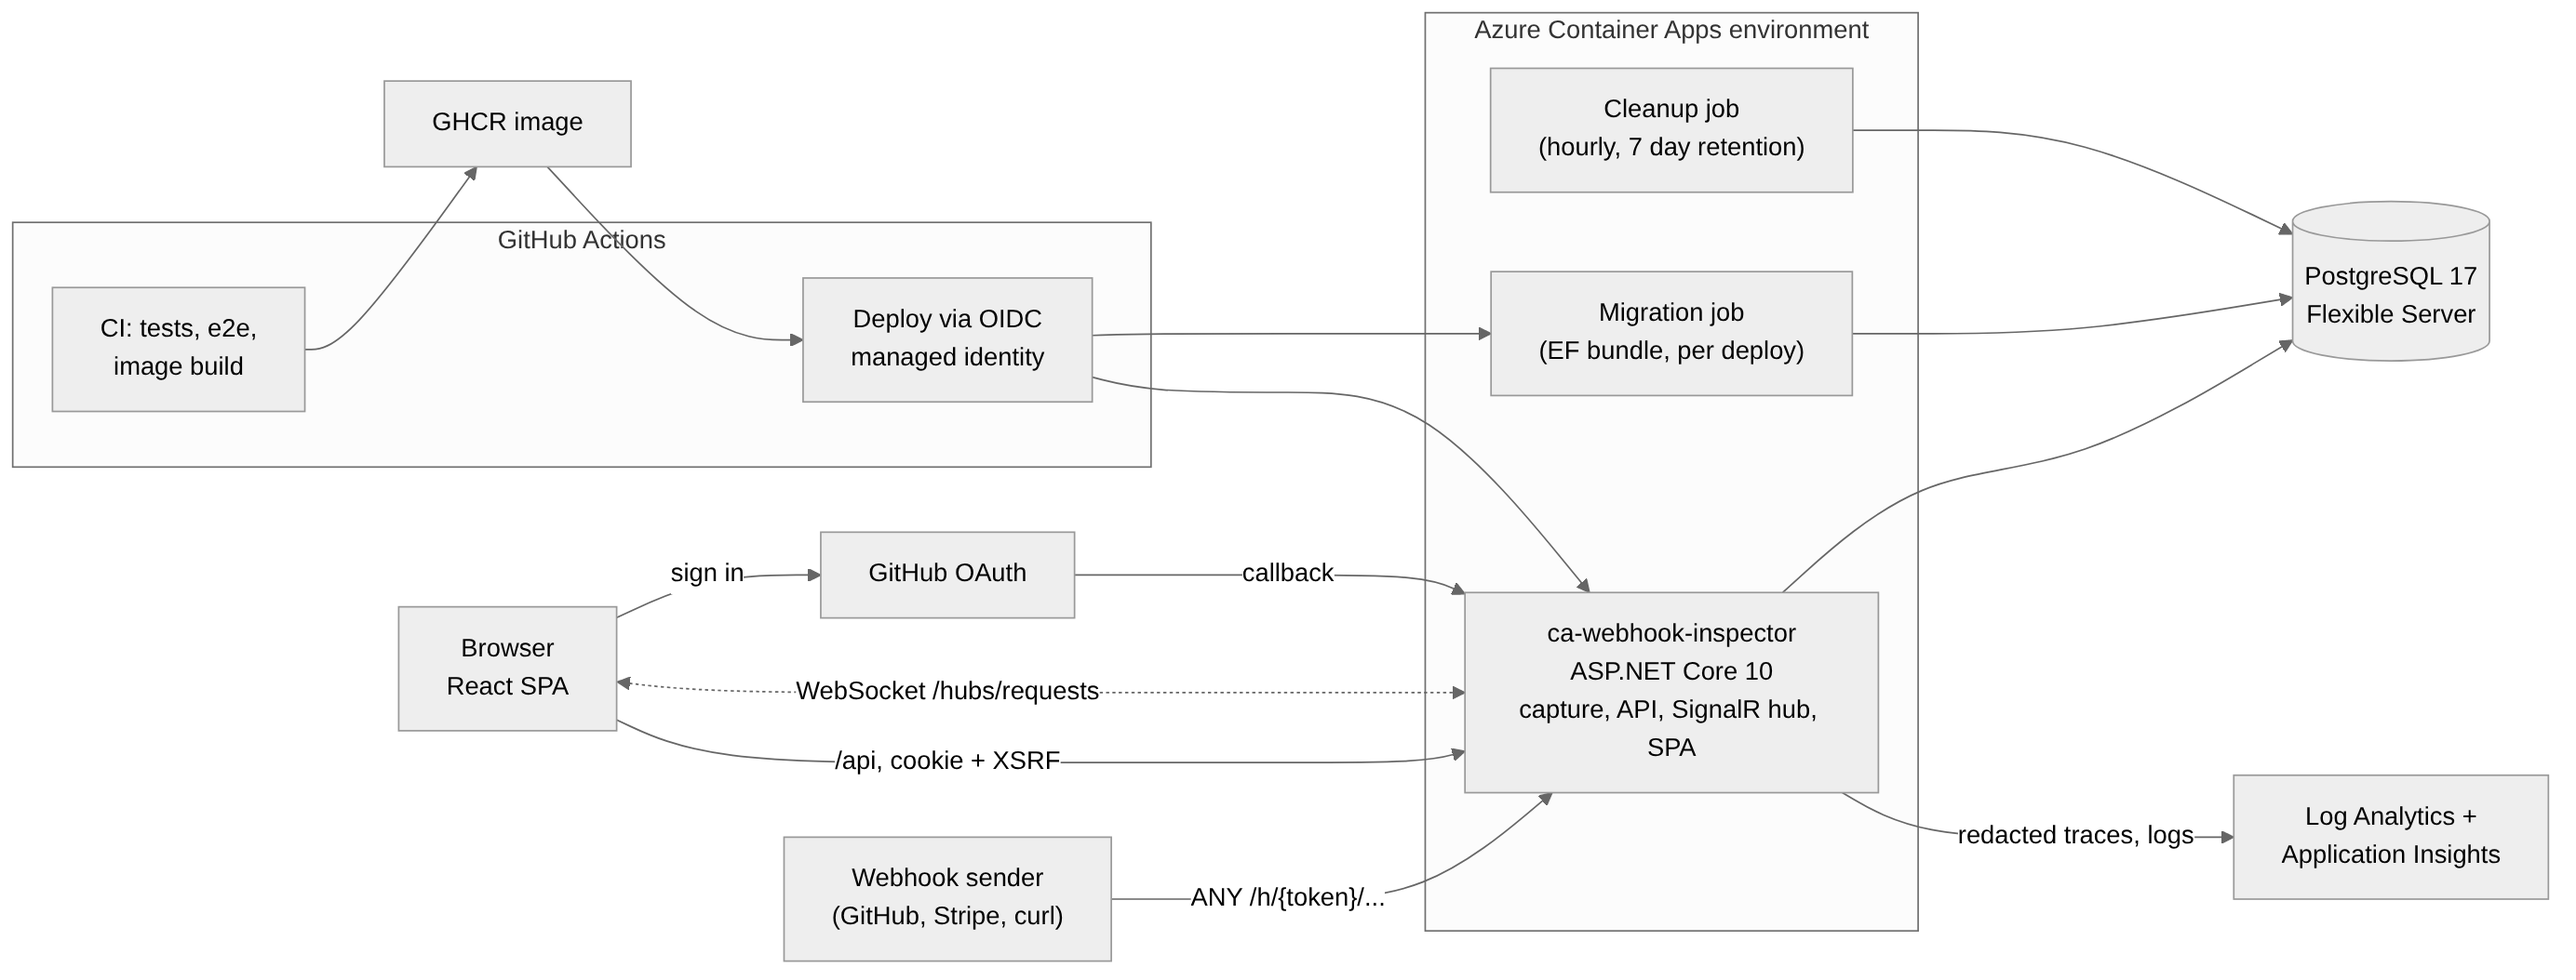
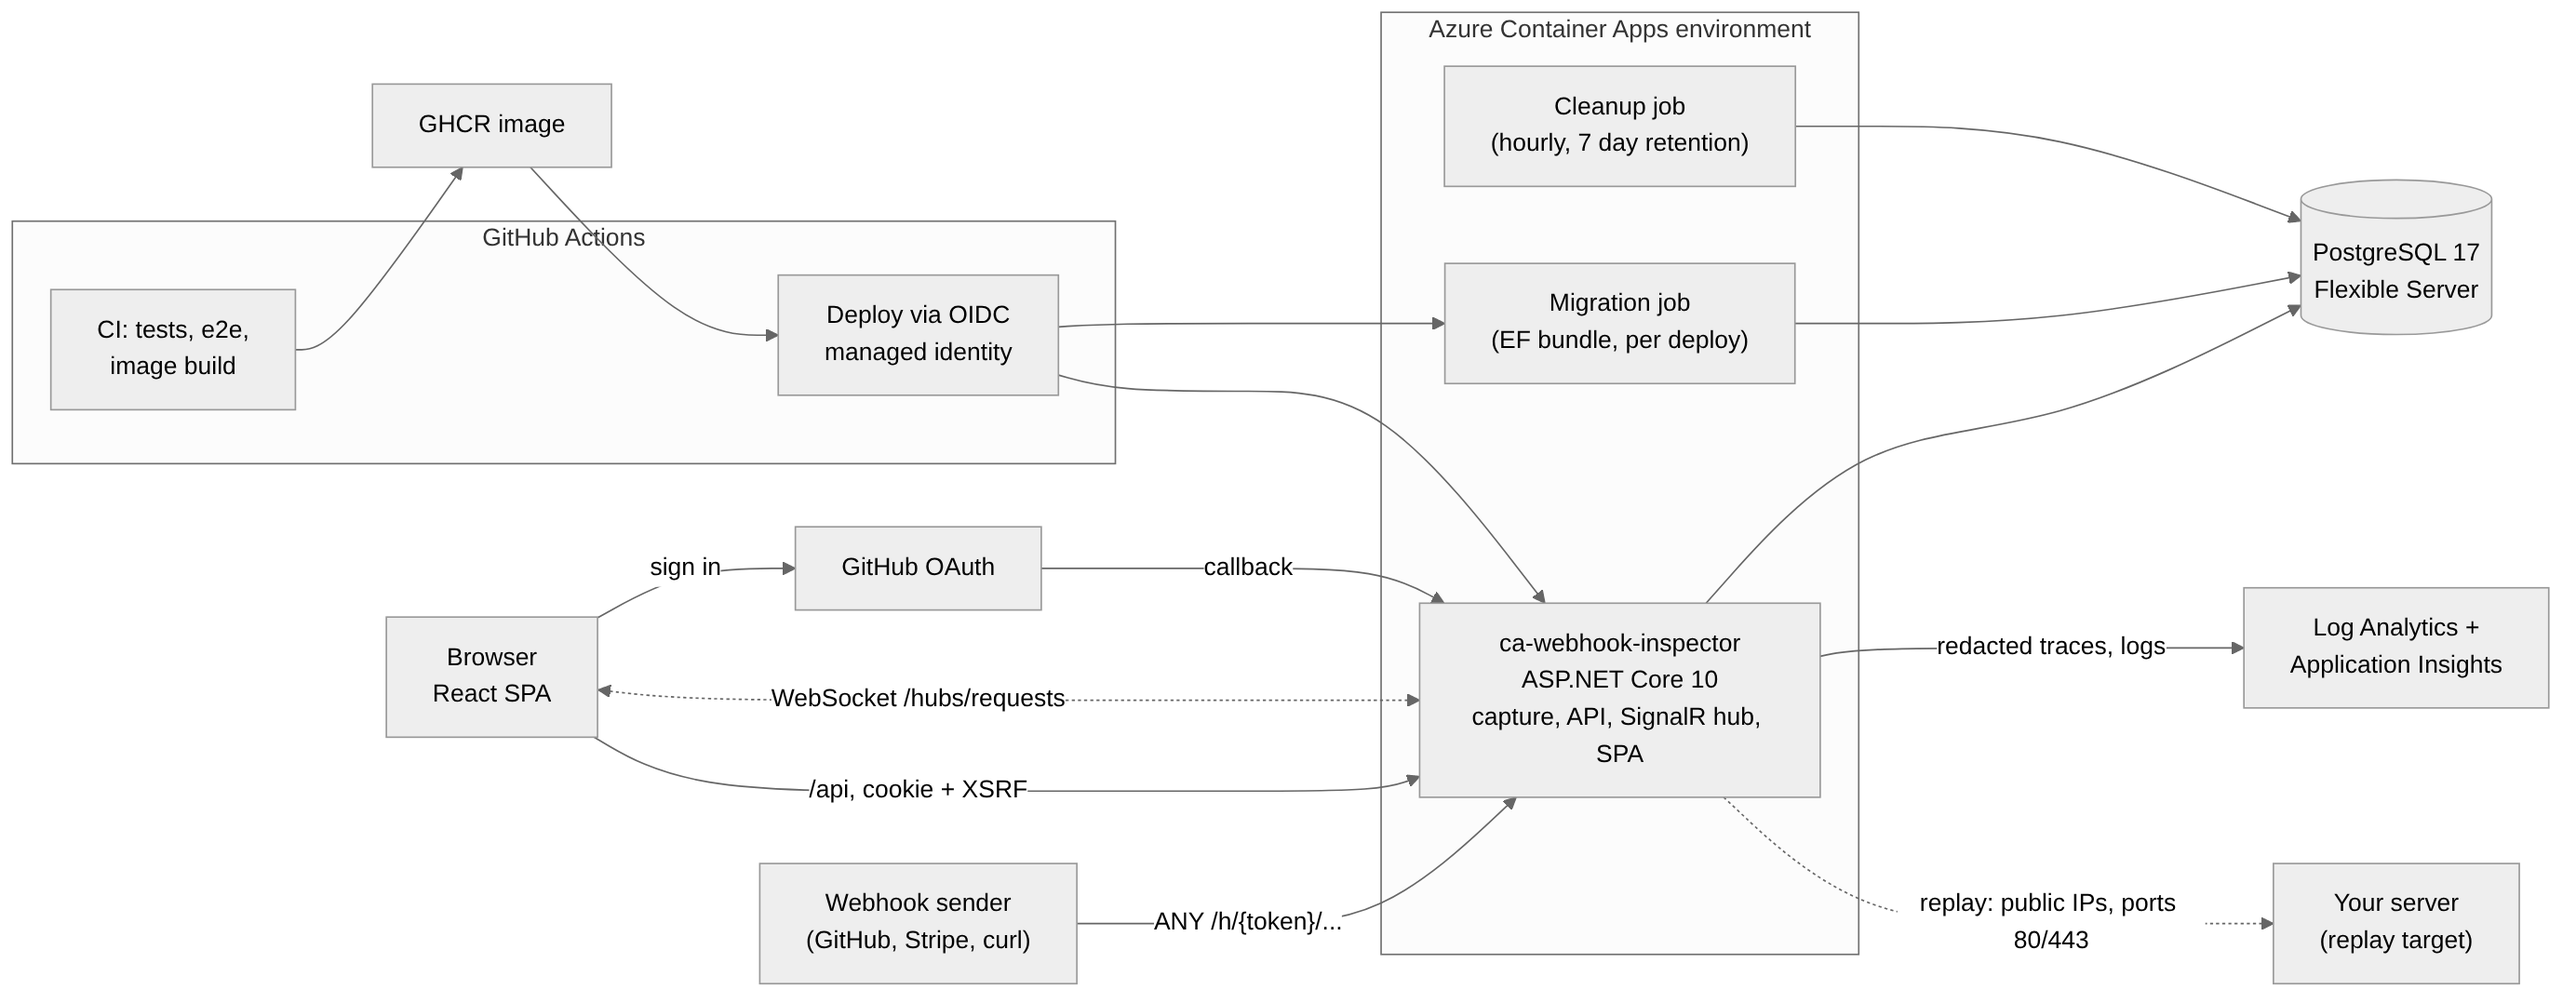
Document replay and its SSRF protection (ADR 0013)

diff --git a/docs/decisions/0013-replay-with-ssrf-protection.md b/docs/decisions/0013-replay-with-ssrf-protection.md
@@ -1,0 +1,44 @@
+# 0013: Replay with SSRF protection, checked at connect time
+
+- Status: accepted
+- Date: 2026-05-28
+
+## Context
+
+Replay sends a stored request to a URL the user chooses. That makes this server send requests on a user's behalf, which is server-side request forgery (SSRF) unless it is limited. From inside the Container App a request can reach things an outsider cannot:
+
+- the Azure Instance Metadata Service at `169.254.169.254` and the managed identity endpoint, which hand out access tokens,
+- `localhost` and the app's own ports,
+- other apps and services in the Container Apps environment and any private network,
+- third-party servers, with this service's IP address as the sender.
+
+A check on the URL string is not enough. `127.0.0.1` can be written as `2130706433`, `0x7f000001`, `0177.0.0.1`, `127.1`, `[::1]` or `[::ffff:127.0.0.1]`. A host name can resolve to a private address. A public URL can redirect to a private one. And with DNS rebinding a name answers with a public address when it is checked and a private one when the request is made.
+
+## Decision
+
+The address is checked where it is used: in `SocketsHttpHandler.ConnectCallback`. The callback resolves the host once, checks every resulting address against the policy, and connects the socket to exactly those addresses. No separate lookup exists that an attacker could answer differently.
+
+The policy allows only ports 80 and 443 and only public addresses. It blocks loopback, private ranges, link-local (including the metadata service), CGNAT, multicast, documentation and reserved ranges, and in IPv6 everything outside global unicast `2000::/3` plus the ranges inside it that embed IPv4 addresses (6to4, Teredo). IPv4-mapped IPv6 addresses are checked as the IPv4 address they map to. A name that resolves to both public and private addresses is refused.
+
+Around that:
+
+- **No redirects.** A `3xx` is returned to the user as the response. Following it would need the same check per hop, and showing it is more useful when debugging a webhook handler anyway.
+- **No proxy.** With a proxy, the callback would only see the proxy's address.
+- **Header policy.** `Host`, `Cookie`, `Authorization`, `Proxy-Authorization`, hop-by-hop headers (including those named in `Connection`), `Content-Length`, `Accept-Encoding` and forwarding headers added by the ingress are not sent. An `X-Webhook-Inspector-Replay` header identifies the request as a replay.
+- **Limits.** 5 seconds per attempt, at most 64 KB of the response is read, 10 replays per user per minute and 8 at once. The last 20 attempts per request are kept and deleted with the request.
+- **Fixed error messages.** Errors are mapped to a few categories (blocked, timeout, DNS, connect, TLS, invalid response) with messages written in code. Exception text is never returned, so a failure cannot describe this server's network.
+- **No telemetry or logs with the target.** The target URL may carry secrets. The handler has no trace propagator, which also stops .NET from creating a client span, and the call runs inside `SuppressInstrumentationScope` as a second layer. Logs contain the attempt id, outcome, status and duration only.
+
+## Alternatives considered
+
+- **Resolve and check before sending, then let HttpClient connect.** Simple, and the common mistake: HttpClient resolves the name again, and that second answer is the one used (DNS rebinding).
+- **Allow-list of target hosts per user.** Safer against abuse of third parties, but needs a verification flow (proving you own a domain) that is out of proportion here. The rate limit covers the abuse case well enough for this service.
+- **An egress proxy or firewall that enforces the rules.** The right tool for a larger system, since it protects every outgoing call. Azure Firewall costs far more than the rest of this project, and the in-process check can be tested end to end.
+- **Follow redirects with a check per hop.** Possible, since every hop goes through the same callback. Left out because it adds cases to test and is not needed for the use case.
+
+## Consequences
+
+- Replay cannot reach `localhost`, so a developer replays to a public URL such as a tunnel (ngrok, Cloudflare Tunnel) or a staging server, not directly to their laptop. The UI says so.
+- Ports other than 80 and 443 are refused, so a staging server on port 8080 is not reachable. This keeps the service from being used as a port scanner.
+- Tests that need a successful replay must reach a local test server, which the real policy refuses. They replace the policy through dependency injection with one that allows exactly the test server's loopback port. Production has no setting that weakens the policy.
+- `ReplayClientTests` covers every bypass above against real sockets, including the address notations, a name resolving to a private address, a rebinding resolver (it checks that the host is resolved exactly once and the checked address is the one used) and a redirect to a second path. Disabling the address check makes 19 of its 25 tests fail.

diff --git a/README.md b/README.md
@@ -1,6 +1,6 @@
 # Webhook Inspector
 
-Sign in with GitHub, create an endpoint and get a unique URL. Every HTTP request sent to that URL is stored and shows up live in the browser, where it can be filtered, inspected byte for byte and exported as `curl`. Useful when building against GitHub, Stripe or Slack webhooks and you want to see exactly what they send.
+Sign in with GitHub, create an endpoint and get a unique URL. Every HTTP request sent to that URL is stored and shows up live in the browser, where it can be filtered, inspected byte for byte, exported as `curl` or replayed to your own server. Useful when building against GitHub, Stripe or Slack webhooks and you want to see exactly what they send.
 
 **[Try the demo](https://ca-webhook-inspector.blueriver-b0d3312f.norwayeast.azurecontainerapps.io/demo)** (made-up data, runs in your browser, no sign-in) or [sign in](https://ca-webhook-inspector.blueriver-b0d3312f.norwayeast.azurecontainerapps.io) to create real endpoints.
 
@@ -15,6 +15,7 @@ Sign in with GitHub, create an endpoint and get a unique URL. Every HTTP request
 - **Correct under concurrency.** Quotas are enforced under a per-endpoint row lock, tested with parallel requests against a real Postgres ([ADR 0005](docs/decisions/0005-quota-under-endpoint-row-lock.md)).
 - **Live without losing anything.** SignalR only says "something arrived"; the database is the source of truth, and the UI catches up through keyset pagination after a disconnect ([ADR 0003](docs/decisions/0003-database-as-source-of-truth.md), [ADR 0010](docs/decisions/0010-live-view-contract.md)).
 - **Captured data never reaches telemetry.** A trace processor strips everything but an allowlist on the capture route, and a script checks the live logs for a planted secret ([live secret check](#live-secret-check)).
+- **Replay without SSRF.** A stored request can be sent again to any public URL, but never to `localhost`, private networks or the cloud metadata service, whatever the notation, DNS answer or redirect. The address is checked at connect time, so DNS rebinding has no gap to use ([ADR 0013](docs/decisions/0013-replay-with-ssrf-protection.md)).
 - **Isolation between users.** Every query is scoped to the signed-in user, and another user's resources answer `404`, covered by tests for every route.
 - **Measured, not guessed.** A load test found the breaking point of one small replica, and load shedding turned 1760 failures into clean `503` responses ([results](#load-test)).
 - **Cheap to run.** Scale to zero, a burstable database, an ingestion cap on logs and a budget alert.
@@ -51,6 +52,7 @@ flowchart LR
   migrate --> db
   cleanup --> db
   app -- "redacted traces, logs" --> mon
+  app -. "replay: public IPs, ports 80/443" .-> replayTarget["Your server<br/>(replay target)"]
   build --> ghcr --> deploy
   deploy --> migrate
   deploy --> app
@@ -129,6 +131,7 @@ All `/api` routes need a signed-in user. Every non-GET request under `/api` and 
 | GET | `/api/endpoints/{id}/requests?cursor=&limit=&method=&pathPrefix=&from=&to=` | Newest first, keyset pagination |
 | GET, DELETE | `/api/requests/{id}` | Full detail / delete one |
 | GET | `/api/requests/{id}/body` | Raw body as an attachment |
+| GET, POST | `/api/requests/{id}/replays` | Earlier attempts, newest first / replay to `{ "targetUrl": "https://…" }` |
 | GET | `/health/live`, `/health/ready` | Liveness / database readiness |
 | WS | `/hubs/requests` | SignalR hub (sign-in required): `Subscribe(endpointId)`, then `RequestReceived` events with id, method, path, time, size and cursor (no body, headers or query) |
 
@@ -140,6 +143,7 @@ All `/api` routes need a signed-in user. Every non-GET request under `/api` and 
 | Headers | 64 headers, 32 KB in total |
 | Rate limit | 120 requests/min per capture token, 300/min per source IP (`429`) |
 | Quota per endpoint | 1,000 requests and 50 MB of body bytes (`429`) |
+| Replay | Public addresses on ports 80 and 443 only, 5 s timeout, 64 KB of the response kept, 10 per user per minute (`429`), 8 at once (`503`), last 20 attempts per request |
 
 ## Tests
 
@@ -210,6 +214,7 @@ Create an endpoint called "leak check" in the live UI and pass the last part of 
 - The app connects as the Postgres administrator. A separate least-privilege role is a v2 improvement.
 - Data Protection keys are stored unencrypted in the database (see [ADR 0002](docs/decisions/0002-cookie-authentication.md)).
 - The first request after a quiet period has a cold start of a few seconds ([ADR 0007](docs/decisions/0007-scale-to-zero.md)).
+- Replay cannot reach `localhost` or ports other than 80 and 443, by design. To replay to your own machine, expose it through a tunnel such as ngrok or Cloudflare Tunnel.
 
 ## Load test
 

diff --git a/docs/decisions/README.md b/docs/decisions/README.md
@@ -16,5 +16,6 @@ Short records of decisions that shaped the project. Copy `0000-template.md` to s
 | [0010](0010-live-view-contract.md) | Live view contract: the newest page is live, full history through pagination | accepted |
 | [0011](0011-github-oauth-app-for-sign-in.md) | GitHub OAuth app (not a GitHub App) for sign-in | accepted |
 | [0012](0012-managed-identity-for-deploy-login.md) | User-assigned managed identity for the deploy login | accepted |
+| [0013](0013-replay-with-ssrf-protection.md) | Replay with SSRF protection, checked at connect time | accepted |
 
 Numbers 0001 to 0010 follow the list in [PLAN.md section 15](../PLAN.md#15-decisions-to-document-adrs). Decisions made later start at 0011.
